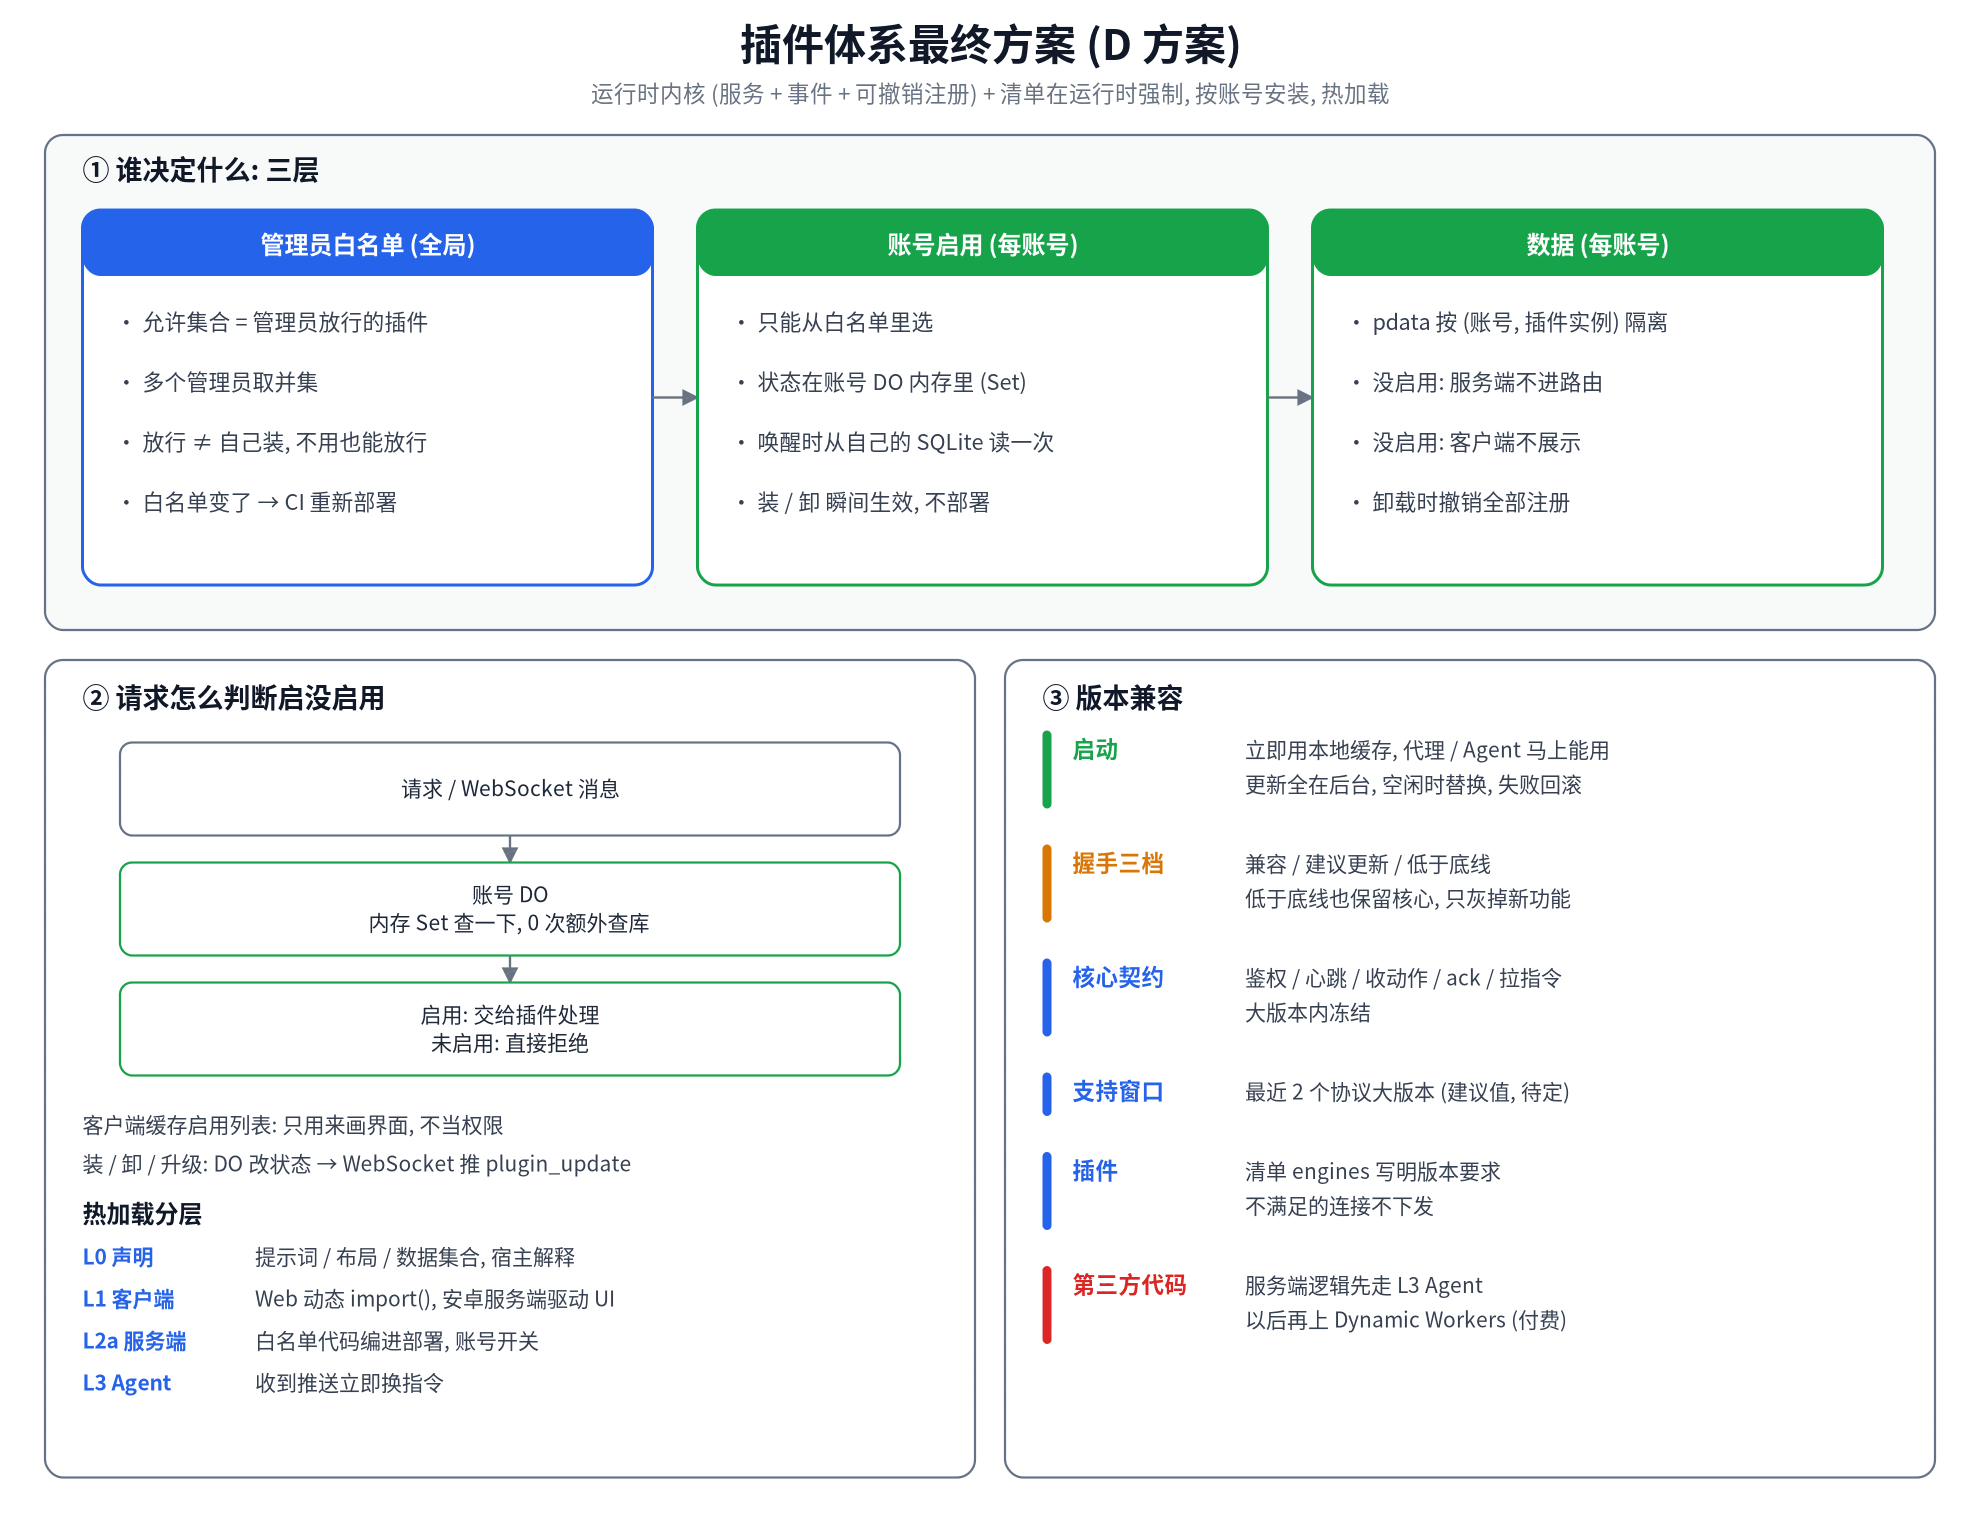
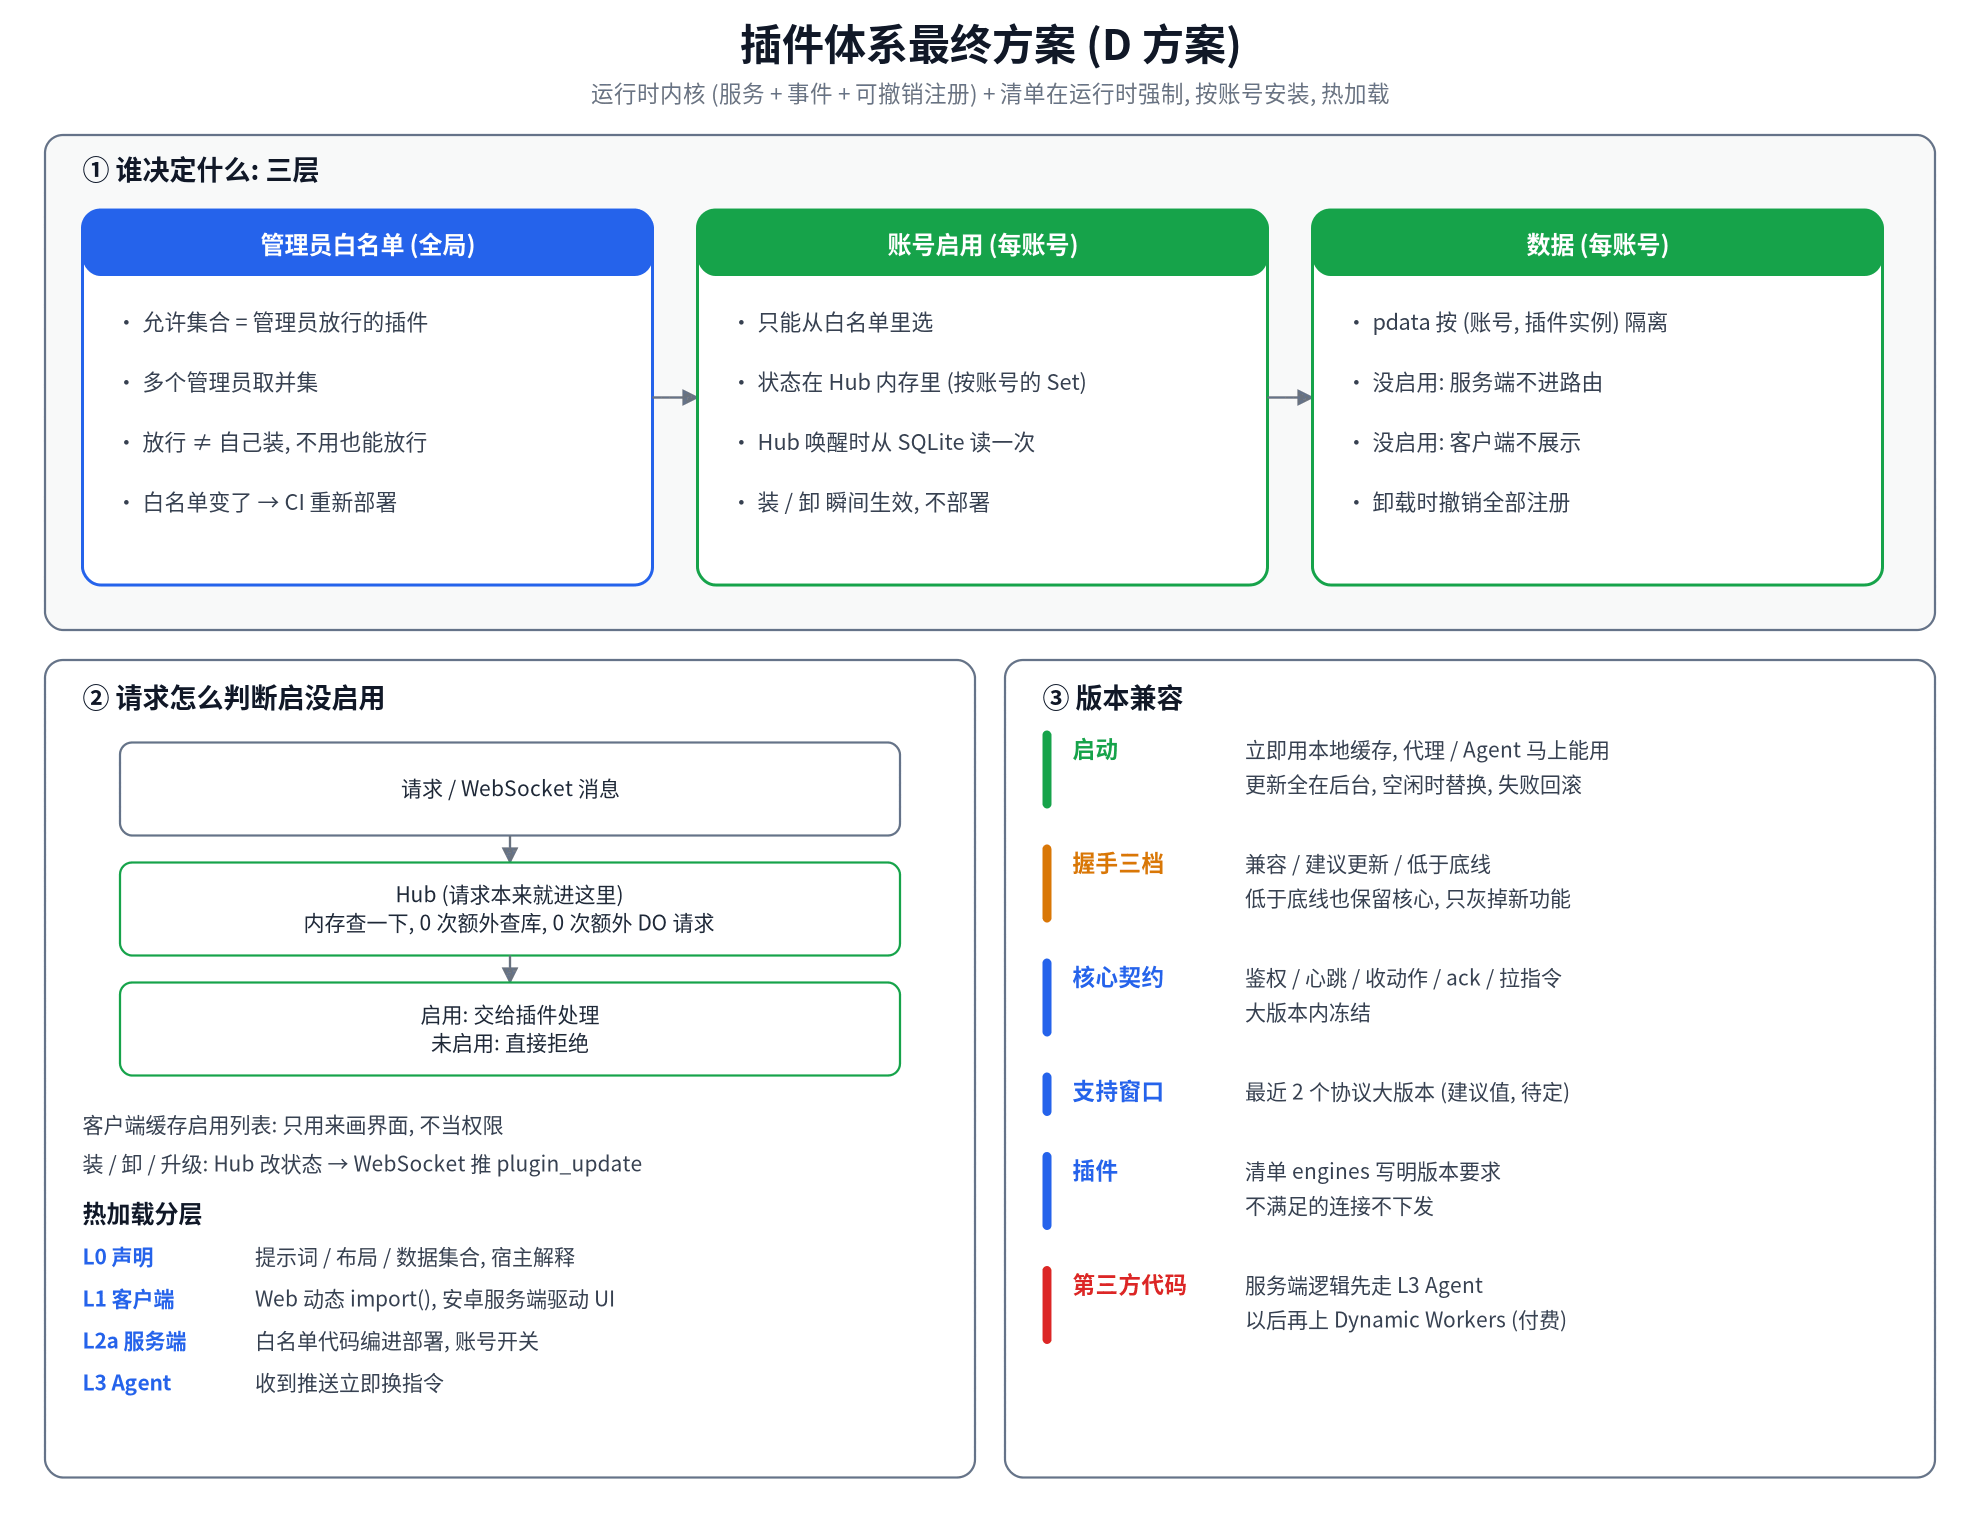
文档: 插件方案更正启用状态位置 (单 Hub 内存), 补充请求预算约束

Changed region(s): [[0.3697, 0.2482, 0.5237, 0.3102], [0.154, 0.5894, 0.3697, 0.6205], [0.1232, 0.7446, 0.3081, 0.7756]]

diff --git a/docs/design/plugin-arch.md b/docs/design/plugin-arch.md
@@ -6,6 +6,16 @@
 
 ![最终方案](plugin-arch/6-final.png)
 
+## 请求预算
+
+所有 HTTP 请求都经 Worker 转发到同一个 Hub DO, 所以每个请求 = 1 次 Worker 请求 + 1 次 DO 请求; WebSocket 入站消息, cron, RPC 也算 DO 请求。免费额度两者都是每天 10 万 (UTC 0 点重置)。
+
+插件体系的硬约束:
+
+- 不新增 DO 跳转: 启用判断, 插件钩子, 事件总线都在 Hub 进程内完成。
+- 不为插件单独建 DO, 不在插件里加定时拉取; 变化一律 WebSocket 推送。
+- 每个插件的清单声明 cron / alarm 频率, 市场 CI 按全部白名单插件累加估算每日请求, 超预算不让进白名单。
+
 ## 服务端代码与版本兼容
 
 ![服务端代码两条路](plugin-arch/4-server-code.png)
